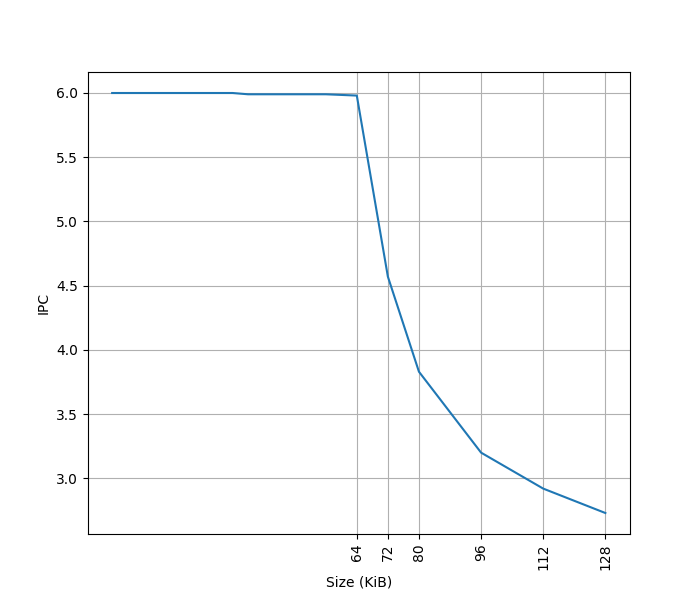
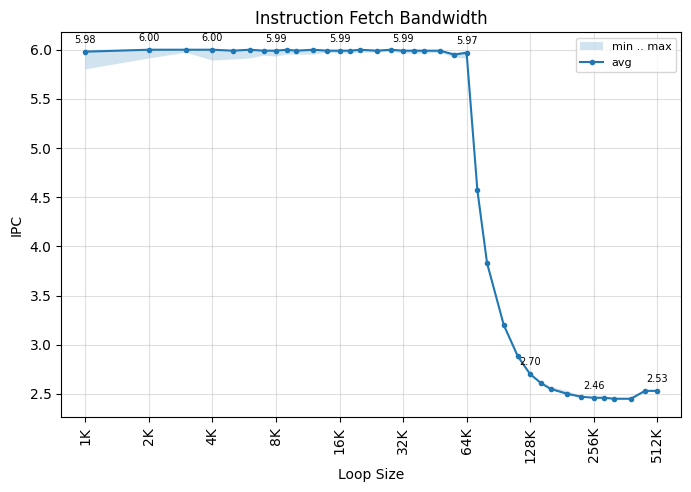
Add more analysis

diff --git a/docs/blog/posts/hardware/loongson-la664.md b/docs/blog/posts/hardware/loongson-la664.md
@@ -117,7 +117,9 @@ Loongson LA664 的性能测试结果见 [SPEC](../../../benchmark/index.md)。
 
 可以看到 footprint 在 64 KB 之前时可以达到 6 IPC，之后开始下降，这里的 64 KB 就对应了 L1 ICache 的容量。
 
-容量和 LA464 相同，不过 IPC 有所上升。在超出 L1 ICache 区间里，LA664 的 IPC 也比 LA464 要高，估计 LA664 从 L2 Cache 到 L1 ICache 的 Refill 带宽要更高。
+超出 L1 ICache 范围，到 L2 范围后，IPC 下降比较显著，看起来依然是没有指令预取器，或者没针对这种大量 NOP 指令的场景做适配。
+
+容量和 LA464 相同，不过 IPC 有所上升。在超出 L1 ICache 区间里，LA664 的 IPC 也比 LA464 要高（接近 2x IPC），估计 LA664 从 L2 Cache 到 L1 ICache 的 Refill 带宽要更高。
 
 [测试过程详见测试代码](https://github.com/jiegec/cpu-micro-benchmarks/blob/master/src/fetch_bandwidth_gen.cpp)。
 
